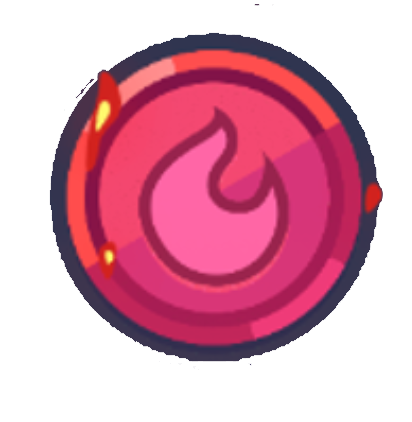
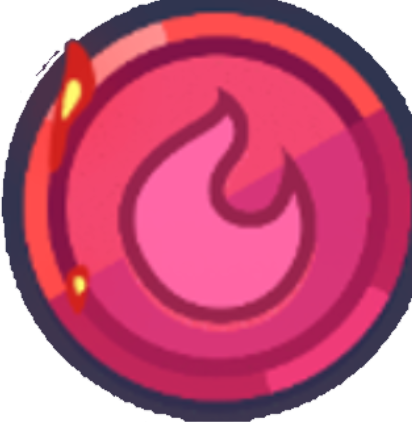
gjfgjf

diff --git a/src/pages/ChicknRoad/Chickenroad.js b/src/pages/ChicknRoad/Chickenroad.js
@@ -48,7 +48,7 @@ import Gamerule from './Gamerule';
 import MyBetHistory from './MyBetHistory';
 import Instruction from './Instruction';
 import Footer from './Footer';
-import redcoin from '../../assets/images/chickenRoad/redcoin.png';
+import redcoin from '../../assets/images/chickenRoad/coinred.png';
 import wall from '../../assets/images/chickenRoad/wall.png';
 import src from '../../assets/images/chickenRoad/src.png';
 import musicFile3 from '../../assets/images/chickenRoad/bgmusic.mp3';
@@ -59,6 +59,7 @@ import {
   isEnableSoundFunction,
 } from '../../redux/slices/counterSlice';
 import { useQuery, useQueryClient } from 'react-query';
+import logo from '../../assets/images/logo.png';
 import { apiConnectorGet } from '../../services/apiconnector';
 import { endpoint } from '../../services/urls';
 import CustomCircularProgress from '../../shared/loder/CustomCircularProgress';
@@ -86,6 +87,7 @@ const Chickenroad = () => {
   const dispatch = useDispatch();
   const audioRefBg = useRef(null);
   const audioRefHen = useRef(null);
+  const doorRef = useRef(null);
 
   const currentList =
     selected === 'Easy'
@@ -136,7 +138,7 @@ const Chickenroad = () => {
       const scrollLeft = scrollRef.current.scrollLeft;
       const containerWidth = scrollRef.current.offsetWidth;
       const itemWidth = scrollRef.current.children[0]?.offsetWidth || 0;
-      const startIdx = Math.floor(scrollLeft / itemWidth);
+      const startIdx = Math.ceil(scrollLeft / itemWidth);
       const visibleIndices = Array.from(
         { length: visibleCount },
         (_, i) => startIdx + i
@@ -164,7 +166,7 @@ const Chickenroad = () => {
       const scrollLeft = scrollRef.current.scrollLeft;
       const containerWidth = scrollRef.current.offsetWidth;
       const itemWidth = scrollRef.current.children[0]?.offsetWidth || 0;
-      const startIdx = Math.floor(scrollLeft / itemWidth);
+      const startIdx = Math.ceil(scrollLeft / itemWidth);
       const visibleIndices = Array.from(
         { length: visibleCount },
         (_, i) => startIdx + i
@@ -410,8 +412,8 @@ const Chickenroad = () => {
                         alt="avatar"
                         style={{
                           borderRadius: '50%',
-                          width: '64px',
-                          height: '64px',
+                          width: '70px',
+                          // height: '64px',
                         }}
                       />
                       {selectedAvatar === avt && (
@@ -608,36 +610,37 @@ const Chickenroad = () => {
             <Typography variant="caption" color="#aaa">
               Powered by
             </Typography>
-            <img src={inoutlogo} alt="logo" className="w-10 h-10" />
+            <img src={logo} alt="logo" className="w-24" />
           </Box>
         </Menu>
       </div>
       <div>
         <div
-          className="grid grid-cols-[40%_60%] overflow-x-scroll !overflow-y-hidden"
+          className="grid grid-cols-[45%_55%] overflow-x-scroll !overflow-y-hidden"
           style={{ scrollbarWidth: 'none', msOverflowStyle: 'none' }}
         >
           <div className="flex flex-col items-center gap-3 text-white bg-[#2E324D]">
-            <div className="flex items-center bg-[#2E324D]">
-              <p className="text-[#8CA6FF] text-center font-semibold px-1">
+            <div className="flex items-center bg-[#2E324D] whitespace-nowrap gap-1 p-2">
+              <p className="text-[#8CA6FF] font-semibold text-xs text-center ">
                 Live wins
               </p>
-              <div className="w-2 h-2 bg-green-500 text-center rounded-full px-1"></div>
-              <p className="text-[#8CA6FF] font-semibold text-sm pl-1">
+              <div className="w-2 h-2 bg-green-500 rounded-full"></div>
+              <p className="text-[#8CA6FF] font-semibold text-xs">
                 Online: 11242
               </p>
             </div>
-            <div className="flex items-center top-4 left-4 z-50 animate-slideFade justify-evenly w-full p-1 gap-2 bg-[#4B5382] rounded">
-              <div className="relative w-7 h-7">
-                <div className="absolute inset-0 rounded-full bg-red-400 opacity-80"></div>
-                <PersonIcon
-                  className="text-red-700 relative z-10"
-                  fontSize="large"
-                />
+            <div className="flex items-center top-4 left-4 z-50 animate-slideFade justify-evenly w-full p-1 gap-1 bg-[#4B5382] rounded animate-slideFade overflow-hidden whitespace-nowrap flex-nowrap">
+              <div className="relative w-6 h-6">
+                <div className="absolute inset-0 rounded-full flex items-center justify-center z-10 bg-red-400 opacity-80">
+                  <PersonIcon
+                    className="text-red-700 relative z-10"
+                    fontSize="medium"
+                  />
+                </div>
                 <img
                   src={gbflag}
                   alt="flag"
-                  className="w-5 h-3 absolute -bottom-1 -right-2 rounded-sm z-20"
+                  className="w-4 h-3 absolute -bottom-1 -right-2 rounded-sm z-20"
                 />
               </div>
               <p className="text-white text-sm">228690</p>
@@ -681,7 +684,7 @@ const Chickenroad = () => {
                         <div className="flex flex-col gap-4 mt-2">
                           <div className="w-[3rem] h-[2rem] rounded-lg bg-[#363B57] overflow-hidden ml-4 "></div>
                         </div>
-                        <div className="mt-auto relative w-[112px] h-[225px] flex items-center justify-center">
+                        <div className="mt-auto relative w-[112px] h-[280px] flex items-center justify-center">
                           <div
                             className={`absolute inset-0 -mt-1 rounded-t-full border-[4px] border-[#4C5580] bg-[#2D324D]  z-10 flex items-center justify-center`}
                           >
@@ -693,11 +696,22 @@ const Chickenroad = () => {
                               style={{ animationDuration: '10.0s' }}
                             />
                           </div>
+                          <div
+                            className="absolute -bottom-[0rem] z-10 w-[140px] h-[200px] rounded-t-full"
+                            style={{
+                              background:
+                                'linear-gradient(0deg, rgba(255, 236, 100, 0.4) 0%, rgba(255, 236, 100, 0.05) 80%, transparent 100%)',
+                              clipPath:
+                                'polygon(0% 0%, 100% 0%, 70% 100%, 30% 100%)',
+                              filter: 'blur(4px)',
+                            }}
+                          ></div>
                           <div className="absolute bottom-0 left-3 right-3 h-[6px] bg-[#71759C] rounded-b-full z-30"></div>
+
                           <div className="absolute -bottom-1 z-20 flex flex-col items-center">
-                            <div className="w-[80px] h-[6px] bg-[#E0DDC6] rounded-t-md" />
+                            <div className="w-[80px] h-[6px] bg-[#E0DDC6] rounded-t-md z-20" />
                             <div
-                              className="w-[80px] h-[50px] bg-[#C7C4B2] -mt-1"
+                              className="w-[80px] h-[50px] bg-[#C7C4B2] -mt-1 z-20"
                               style={{
                                 clipPath: `polygon(
                                       10% 0%, 90% 0%,  
@@ -730,7 +744,7 @@ const Chickenroad = () => {
                       <img
                         src={wall}
                         alt="wall"
-                        className="!h-[26rem] w-50 bottom-0 !bg-[#2D324D]"
+                        className="!h-[26.7rem] w-50 bottom-0 "
                       />
                     </div>
                   </React.Fragment>
@@ -767,13 +781,22 @@ const Chickenroad = () => {
                                 <img
                                   src={isBurned ? burnedChicken : chicken}
                                   alt="chicken"
-                                  className={`absolute -top-[10rem] left-1/2 -translate-x-1/2 w-[55px] h-[70px] z-50 min-w-[155px] min-h-[220px]  ${
-                                    isBurned
-                                      ? 'min-w-[50px] min-h-[110px] -top-[3.8rem]'
-                                      : ''
-                                  }`}
+                                  className={`absolute left-1/2 -translate-x-1/2 z-20 transition-all duration-300 ease-in-out 
+                            ${
+                              isBurned
+                                ? 'min-w-[75px] min-h-[180px] -top-[7.5rem]'
+                                : 'min-w-[155px] min-h-[220px] -top-[10rem]'
+                            }`}
                                 />
-                                <div className="absolute top-[0.2rem] -translate-x-1/2 w-[120px] h-[40px] rounded-full bg-[radial-gradient(ellipse_at_center,rgba(255,191,0,0.4),transparent)] blur-[1px] z-0"></div>
+
+                                <div
+                                  className="absolute bottom-[0.2rem]  left-1/2 -translate-x-1/2  z-0 w-[140px] h-[200px] rounded-t-full animate-glow-move pointer-events-none"
+                                  style={{
+                                    background:
+                                      'radial-gradient(circle at 80% 90%, rgba(255, 236, 100, 0.6) 0%, rgba(255, 236, 100, 0.1) 70%, transparent 100%)',
+                                    filter: 'blur(8px)',
+                                  }}
+                                ></div>
                               </>
                             )}
                           </div>

diff --git a/src/services/urls.js b/src/services/urls.js
@@ -1,9 +1,9 @@
 export const domain = 'https://zupeeterwintimer.onrender.com';
-export const game_domain = 'http://192.168.18.214:9025';
+// export const game_domain = 'http://192.168.18.214:9025';
 
 export const aviatordomain = 'https://zupeeterwintimer.onrender.com';
 
-// export const game_domain = 'https://tahalkagame.com';
+export const game_domain = 'https://tahalkagame.com';
 export const project_name = 'Tahalka Game';
 
 export const rupees = '₹';

diff --git a/src/index.css b/src/index.css
@@ -1367,3 +1367,17 @@
 .animate-slideFade {
   animation: slideFade 4s ease-in-out infinite;
 }
+
+@keyframes glow-move {
+  0% {
+    background-position: 100% 90%;
+  }
+  100% {
+    background-position: 0% 90%;
+  }
+}
+
+.animate-glow-move {
+  animation: glow-move 2s ease-in-out infinite alternate;
+  background-size: 200% 200%;
+}

diff --git a/src/pages/ChicknRoad/Footer.js b/src/pages/ChicknRoad/Footer.js
@@ -361,13 +361,15 @@ const Footer = ({
 };
 
 export default Footer;
+
 const style = {
   position: 'absolute',
-  top: '60%',
+  top: '50%',
   left: '50%',
   transform: 'translate(-50%, -50%)',
-  width: 320,
+  width: 220,
   bgcolor: 'transparent',
-  boxShadow: 'none',
+  boxShadow: 24,
+  outline: 'none',
   p: 0,
 };

diff --git a/src/pages/home/component/Lottery.js b/src/pages/home/component/Lottery.js
@@ -108,7 +108,7 @@ function Lottery() {
           <Box
             component="img"
             src={lotterycategory5}
-            className="!w-60 !h-28 !rounded-md"
+            className="!w-48 !h-28 !rounded-md"
           ></Box>
         </Box>
       </Box>
